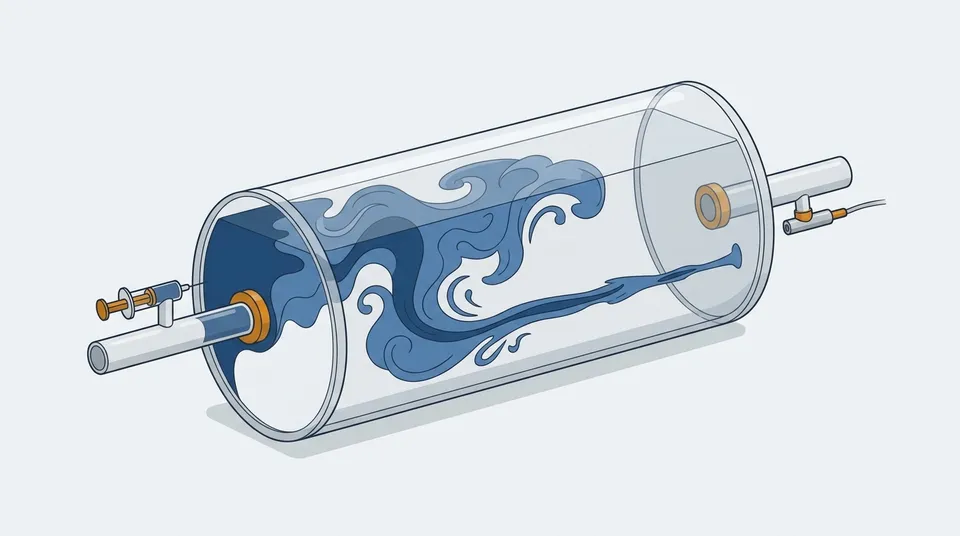
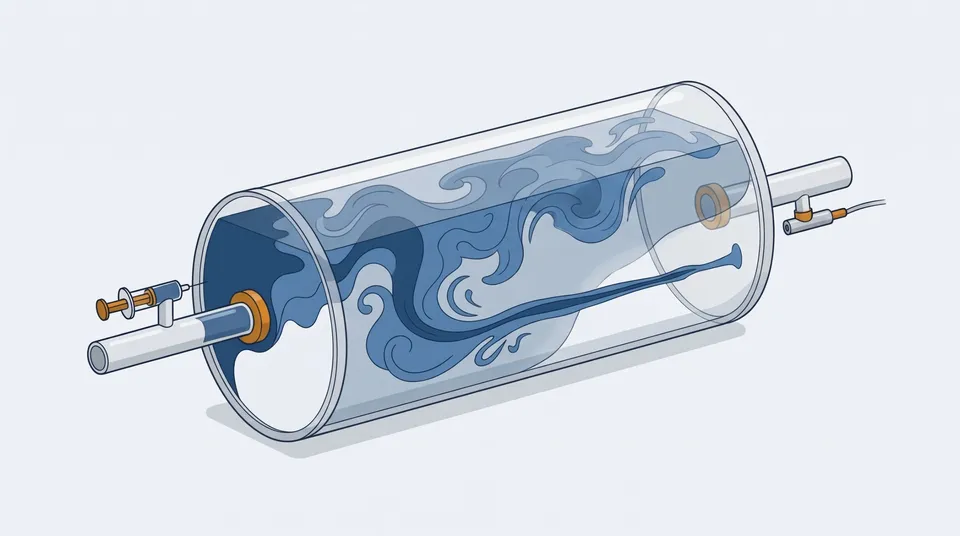
Add Lecture 4B (multiphase reactions) to the hub; new L11/L13 thumbnails
Adds a card for Rate_expression_for_multiphase_reaction.html after
Lecture 4 with its four sub-topics and thumbnail IMG-L04B, and replaces
the Lecture 11 and Lecture 13 thumbnails with the revised Gemini images.

Claude-Session: https://claude.ai/code/session_01QpPkJLmJmPKkYJ32GgUsaP

Changed region(s): [[0.3125, 0.209, 0.8125, 0.806], [0.125, 0.5373, 0.1875, 0.597]]

diff --git a/index.html b/index.html
@@ -36,9 +36,9 @@ footer{border-top:1px solid #E5E7EB;background:#fff}footer .w{padding-top:22px;p
 <header><div class="w"><div class="eyebrow"><b>2105604</b><span>Department of Chemical Engineering · Chulalongkorn University</span></div>
 <h1>Advanced Chemical Engineering Kinetics and Chemical Reactor Design</h1>
 <p class="sub">บทเรียนรายวิชา — สไลด์ interactive ทุกบท เปิดสอนในห้องหรือทบทวนเองได้</p>
-<div class="stats"><div><strong>18</strong><span>lectures</span></div><div><strong>5</strong><span>parts</span></div><div><strong>108</strong><span>sub-topics</span></div><div><strong>1</strong><span>EQUATRAN lesson</span></div></div></div></header>
+<div class="stats"><div><strong>19</strong><span>lectures</span></div><div><strong>5</strong><span>parts</span></div><div><strong>112</strong><span>sub-topics</span></div><div><strong>1</strong><span>EQUATRAN lesson</span></div></div></div></header>
 <nav aria-label="Filter by part"><div class="w"><button type="button" class="pill on" data-f="all" aria-pressed="true">All lessons</button><button type="button" class="pill" data-f="p1" aria-pressed="false">Part I · Chemical Kinetics</button><button type="button" class="pill" data-f="eq" aria-pressed="false">EQUATRAN</button><button type="button" class="pill" data-f="p2" aria-pressed="false">Part Ii · Ideal Reactor Design</button><button type="button" class="pill" data-f="p3" aria-pressed="false">Part Iii · Industrial Reactors and Non-Ideal Flow</button><button type="button" class="pill" data-f="p4" aria-pressed="false">Part Iv · Industrial Reactor Types</button></div></nav>
-<main class="w"><section class="part" data-part="p1"><div class="ph"><span class="pl">PART I</span><h2>Chemical Kinetics</h2><span class="th">จลนพลศาสตร์และสมการอัตราการเกิดปฏิกิริยา</span><span class="rg">Lectures 1–4</span></div><div class="grid"><article class="card"><a class="thumb" href="Lecture1.html"><img src="assets/thumbs/IMG-L01.webp" alt="AI-generated illustration (Gemini) for Lecture 1: Review of Reaction Kinetics" loading="lazy" width="960" height="536"></a>
+<main class="w"><section class="part" data-part="p1"><div class="ph"><span class="pl">PART I</span><h2>Chemical Kinetics</h2><span class="th">จลนพลศาสตร์และสมการอัตราการเกิดปฏิกิริยา</span><span class="rg">Lectures 1–4B</span></div><div class="grid"><article class="card"><a class="thumb" href="Lecture1.html"><img src="assets/thumbs/IMG-L01.webp" alt="AI-generated illustration (Gemini) for Lecture 1: Review of Reaction Kinetics" loading="lazy" width="960" height="536"></a>
 <div class="body"><div class="head"><span class="badge">1</span><div><span class="kick">LECTURE 1</span><h3>Review of Reaction Kinetics</h3></div></div>
 <ol><li><span class="n">1-1</span><span class="q" title="Rate, consumption and generation">Rate, consumption and generation</span></li><li><span class="n">1-2</span><span class="q" title="Multiple reactions: yield, selectivity">Multiple reactions: yield, selectivity</span></li></ol><div class="foot"><span class="meta">2 sub-topics · quiz · activity</span><a class="btn" href="Lecture1.html">Open deck <svg width="16" height="16" viewBox="0 0 24 24" fill="none" stroke="currentColor" stroke-width="2.2" stroke-linecap="round" stroke-linejoin="round" aria-hidden="true"><path d="M7 17L17 7"/><path d="M8 7h9v9"/></svg></a></div></div></article><article class="card"><a class="thumb" href="Lecture2.html"><img src="assets/thumbs/IMG-L02.webp" alt="AI-generated illustration (Gemini) for Lecture 2: Reaction Rate Expression" loading="lazy" width="960" height="536"></a>
 <div class="body"><div class="head"><span class="badge">2</span><div><span class="kick">LECTURE 2</span><h3>Reaction Rate Expression</h3></div></div>
@@ -46,7 +46,9 @@ footer{border-top:1px solid #E5E7EB;background:#fff}footer .w{padding-top:22px;p
 <div class="body"><div class="head"><span class="badge">3</span><div><span class="kick">LECTURE 3</span><h3>Rate Expression for Solid Catalytic Reactions</h3></div></div>
 <ol><li><span class="n">3-1</span><span class="q" title="Steps of a catalytic reaction">Steps of a catalytic reaction</span></li><li><span class="n">3-2</span><span class="q" title="Rate law of each step">Rate law of each step</span></li><li><span class="n">3-3</span><span class="q" title="Adsorption/desorption limiting">Adsorption/desorption limiting</span></li><li><span class="n">3-4</span><span class="q" title="Surface reaction limiting">Surface reaction limiting</span></li><li><span class="n">3-5</span><span class="q" title="Langmuir–Hinshelwood / Hougen–Watson">Langmuir–Hinshelwood / Hougen–Watson</span></li><li><span class="n">3-6</span><span class="q" title="Catalyst deactivation">Catalyst deactivation</span></li></ol><div class="foot"><span class="meta">6 sub-topics · quiz · activity</span><a class="btn" href="Lecture3.html">Open deck <svg width="16" height="16" viewBox="0 0 24 24" fill="none" stroke="currentColor" stroke-width="2.2" stroke-linecap="round" stroke-linejoin="round" aria-hidden="true"><path d="M7 17L17 7"/><path d="M8 7h9v9"/></svg></a></div></div></article><article class="card"><a class="thumb" href="Lecture4.html"><img src="assets/thumbs/IMG-L04.webp" alt="AI-generated illustration (Gemini) for Lecture 4: Solid Catalytic Reactions — Mass-Transfer Limited" loading="lazy" width="960" height="536"></a>
 <div class="body"><div class="head"><span class="badge">4</span><div><span class="kick">LECTURE 4</span><h3>Solid Catalytic Reactions — Mass-Transfer Limited</h3></div></div>
-<ol><li><span class="n">4-1</span><span class="q" title="External mass transfer">External mass transfer</span></li><li><span class="n">4-2</span><span class="q" title="Internal pore diffusion">Internal pore diffusion</span></li><li><span class="n">4-3</span><span class="q" title="External transfer limiting">External transfer limiting</span></li><li><span class="n">4-4</span><span class="q" title="Internal diffusion limiting">Internal diffusion limiting</span></li><li><span class="n">4-5</span><span class="q" title="Effectiveness factor η">Effectiveness factor η</span></li><li><span class="n">4-6</span><span class="q" title="Finding the controlling step">Finding the controlling step</span></li></ol><div class="foot"><span class="meta">6 sub-topics · quiz · activity</span><a class="btn" href="Lecture4.html">Open deck <svg width="16" height="16" viewBox="0 0 24 24" fill="none" stroke="currentColor" stroke-width="2.2" stroke-linecap="round" stroke-linejoin="round" aria-hidden="true"><path d="M7 17L17 7"/><path d="M8 7h9v9"/></svg></a></div></div></article></div></section><section class="part" data-part="eq"><div class="ph"><span class="pl">LESSON</span><h2>EQUATRAN Equation Solver</h2><span class="th">บทเรียนการใช้โปรแกรม EQUATRAN — เรียนก่อนเริ่มบทออกแบบเครื่องปฏิกรณ์</span><span class="rg">Used in Lectures 5–9</span></div><div class="grid"><article class="card eqc"><a class="thumb" href="Equatran.html"><img src="assets/thumbs/IMG-EQ.webp" alt="AI-generated illustration (Gemini) for the EQUATRAN lesson" loading="lazy" width="960" height="536"></a>
+<ol><li><span class="n">4-1</span><span class="q" title="External mass transfer">External mass transfer</span></li><li><span class="n">4-2</span><span class="q" title="Internal pore diffusion">Internal pore diffusion</span></li><li><span class="n">4-3</span><span class="q" title="External transfer limiting">External transfer limiting</span></li><li><span class="n">4-4</span><span class="q" title="Internal diffusion limiting">Internal diffusion limiting</span></li><li><span class="n">4-5</span><span class="q" title="Effectiveness factor η">Effectiveness factor η</span></li><li><span class="n">4-6</span><span class="q" title="Finding the controlling step">Finding the controlling step</span></li></ol><div class="foot"><span class="meta">6 sub-topics · quiz · activity</span><a class="btn" href="Lecture4.html">Open deck <svg width="16" height="16" viewBox="0 0 24 24" fill="none" stroke="currentColor" stroke-width="2.2" stroke-linecap="round" stroke-linejoin="round" aria-hidden="true"><path d="M7 17L17 7"/><path d="M8 7h9v9"/></svg></a></div></div></article><article class="card"><a class="thumb" href="Rate_expression_for_multiphase_reaction.html"><img src="assets/thumbs/IMG-L04B.webp" alt="AI-generated illustration (Gemini) for Lecture 4B: Rate Expression for Multiphase Reactions" loading="lazy" width="960" height="536"></a>
+<div class="body"><div class="head"><span class="badge">4B</span><div><span class="kick">LECTURE 4B</span><h3>Rate Expression for Multiphase Reactions</h3></div></div>
+<ol><li><span class="n">4B-1</span><span class="q" title="Heterogeneous phase reactions">Heterogeneous phase reactions</span></li><li><span class="n">4B-2</span><span class="q" title="Two-phase L–L and G–L rate">Two-phase L–L and G–L rate</span></li><li><span class="n">4B-3</span><span class="q" title="Three-phase G–L–S and L–L–S rate">Three-phase G–L–S and L–L–S rate</span></li><li><span class="n">4B-4</span><span class="q" title="Rate expression for reactor design">Rate expression for reactor design</span></li></ol><div class="foot"><span class="meta">4 sub-topics · quiz · activity</span><a class="btn" href="Rate_expression_for_multiphase_reaction.html">Open deck <svg width="16" height="16" viewBox="0 0 24 24" fill="none" stroke="currentColor" stroke-width="2.2" stroke-linecap="round" stroke-linejoin="round" aria-hidden="true"><path d="M7 17L17 7"/><path d="M8 7h9v9"/></svg></a></div></div></article></div></section><section class="part" data-part="eq"><div class="ph"><span class="pl">LESSON</span><h2>EQUATRAN Equation Solver</h2><span class="th">บทเรียนการใช้โปรแกรม EQUATRAN — เรียนก่อนเริ่มบทออกแบบเครื่องปฏิกรณ์</span><span class="rg">Used in Lectures 5–9</span></div><div class="grid"><article class="card eqc"><a class="thumb" href="Equatran.html"><img src="assets/thumbs/IMG-EQ.webp" alt="AI-generated illustration (Gemini) for the EQUATRAN lesson" loading="lazy" width="960" height="536"></a>
 <div class="body"><div class="head"><span class="badge">EQ</span><div><span class="kick">SELF-PACED LESSON</span><h3>EQUATRAN — Write the Equations, Not the Program</h3></div></div>
 <ol><li><span class="n">1</span><span class="q" title="Equations, not programs">Equations, not programs</span></li><li><span class="n">2</span><span class="q" title="Algebraic equations">Algebraic equations</span></li><li><span class="n">3</span><span class="q" title="Non-linear equations and convergence">Non-linear equations and convergence</span></li><li><span class="n">4</span><span class="q" title="ODEs and integration">ODEs and integration</span></li><li><span class="n">5</span><span class="q" title="Arrays, optimization, regression">Arrays, optimization, regression</span></li><li><span class="n">Lab</span><span class="q" title="Interactive lab and .eqs library">Interactive lab and .eqs library</span></li></ol><div class="foot"><span class="meta">5 chapters · interactive lab · quiz</span><a class="btn" href="Equatran.html">Open deck <svg width="16" height="16" viewBox="0 0 24 24" fill="none" stroke="currentColor" stroke-width="2.2" stroke-linecap="round" stroke-linejoin="round" aria-hidden="true"><path d="M7 17L17 7"/><path d="M8 7h9v9"/></svg></a></div></div></article></div></section><section class="part" data-part="p2"><div class="ph"><span class="pl">PART II</span><h2>Ideal Reactor Design</h2><span class="th">การออกแบบเครื่องปฏิกรณ์อุดมคติ</span><span class="rg">Lectures 5–9</span></div><div class="grid"><article class="card"><a class="thumb" href="Lecture5.html"><img src="assets/thumbs/IMG-L05.webp" alt="AI-generated illustration (Gemini) for Lecture 5: Isothermal Reactor Design" loading="lazy" width="960" height="536"></a>
 <div class="body"><div class="head"><span class="badge">5</span><div><span class="kick">LECTURE 5</span><h3>Isothermal Reactor Design</h3></div></div>
